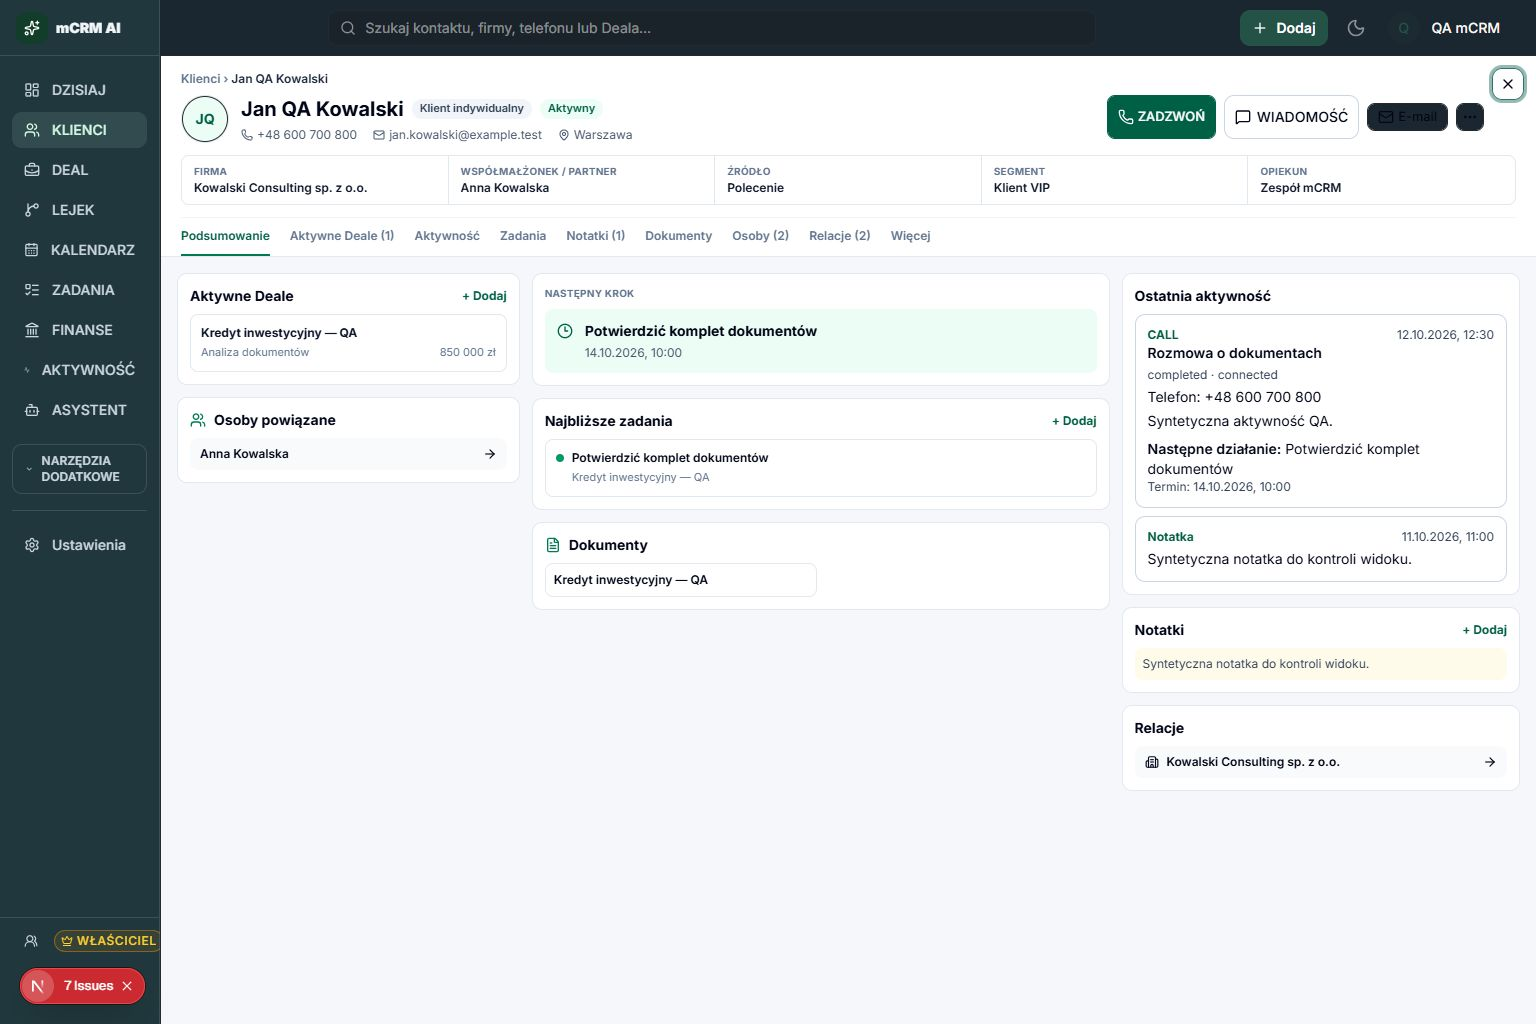
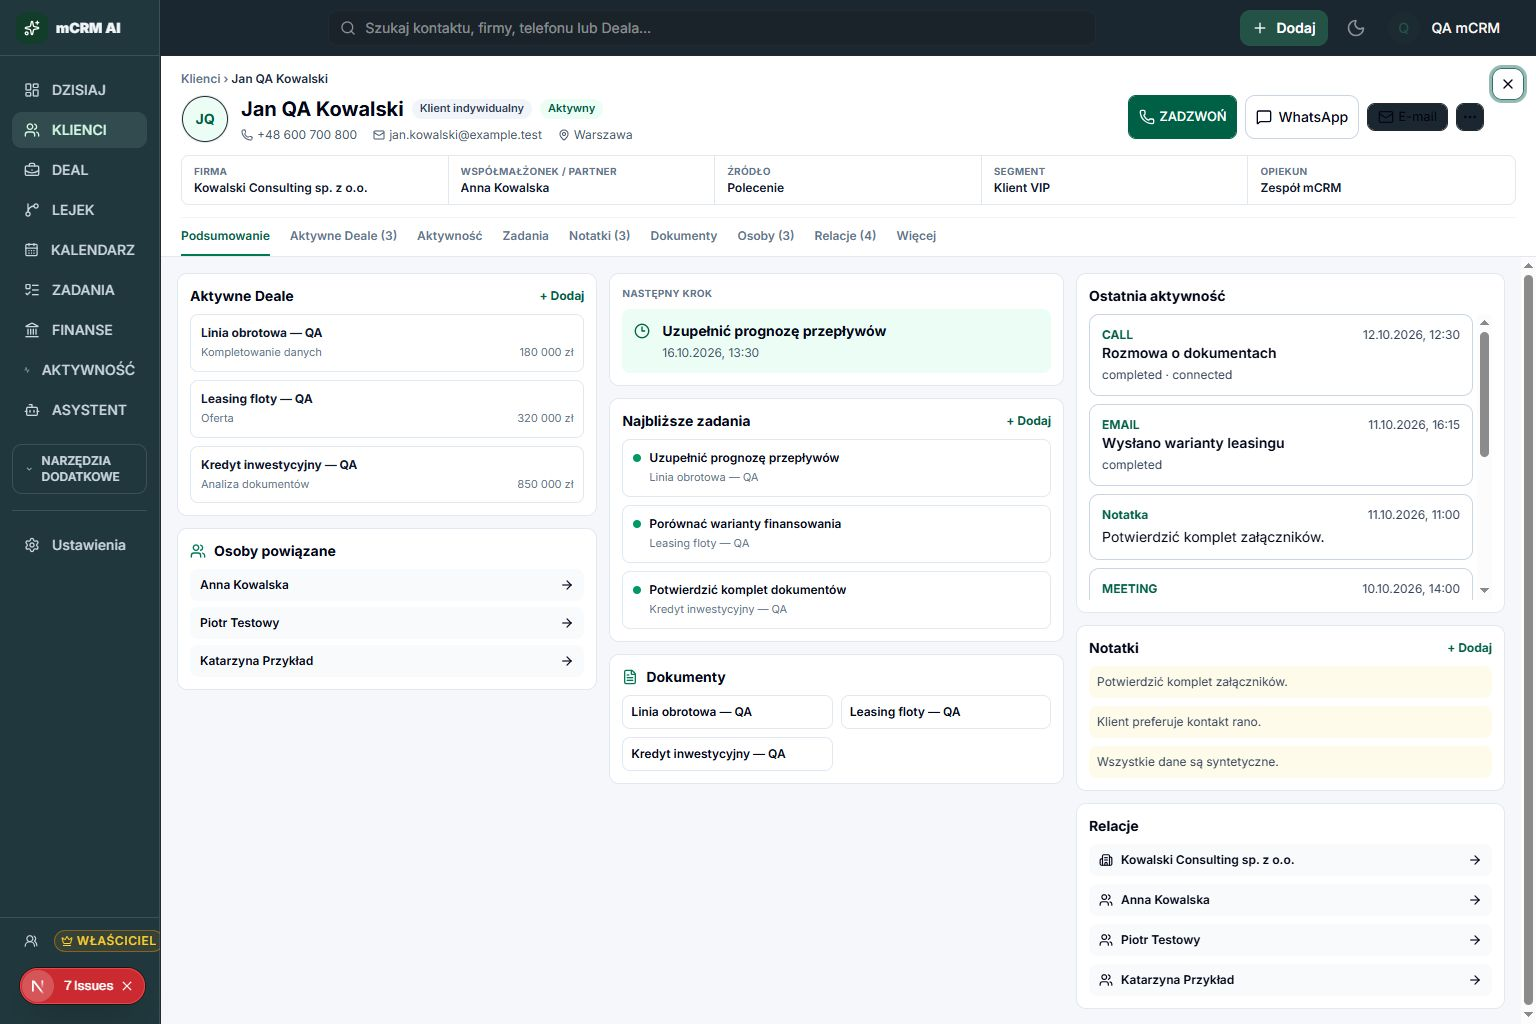
fix(contacts): match approved 02A density

diff --git a/src/components/contacts/contact-detail-view.tsx b/src/components/contacts/contact-detail-view.tsx
@@ -690,6 +690,7 @@ export function ContactDetailView({
                       <WhatsAppAction
                         phone={contact.phone}
                         contactId={contact.id}
+                        label="WhatsApp"
                       />
                       <Button
                         size="sm"
@@ -747,11 +748,11 @@ export function ContactDetailView({
                       ['documents', 'Dokumenty'],
                       [
                         'companies',
-                        `Osoby (${relatedPeople.length + spouseLinks.length})`,
+                        `Osoby (${relatedPeople.filter((person) => !spouseLinks.some(({ spouse }) => spouse.id === person.id)).length + spouseLinks.length})`,
                       ],
                       [
                         'companies',
-                        `Relacje (${contactCompanies.length + spouseLinks.length})`,
+                        `Relacje (${contactCompanies.length + relatedPeople.filter((person) => !spouseLinks.some(({ spouse }) => spouse.id === person.id)).length + spouseLinks.length})`,
                       ],
                     ].map(([value, label], index) => (
                       <button
@@ -774,7 +775,7 @@ export function ContactDetailView({
                 </header>
 
                 <main className="min-h-0 flex-1 overflow-y-auto p-4">
-                  <div className="grid min-h-full grid-cols-[minmax(220px,0.86fr)_minmax(360px,1.45fr)_minmax(250px,1fr)] gap-3">
+                  <div className="grid min-h-full grid-cols-[minmax(260px,0.98fr)_minmax(330px,1.06fr)_minmax(300px,1fr)] gap-3">
                     <div className="space-y-3">
                       <section className="rounded-lg border border-slate-200 bg-white p-3">
                         <div className="flex items-center justify-between">
@@ -972,7 +973,7 @@ export function ContactDetailView({
                         </h3>
                         <ActivityHistory
                           contactId={contact.id}
-                          className="mt-2"
+                          className="mt-2 max-h-[286px] overflow-y-auto pr-1"
                         />
                       </section>
                       <section className="rounded-lg border border-slate-200 bg-white p-3">
@@ -1018,11 +1019,47 @@ export function ContactDetailView({
                               <ArrowRight className="size-3.5" />
                             </Link>
                           ))}
-                          {!contactCompanies.length && !spouseLinks.length && (
-                            <p className="py-3 text-slate-500">
-                              Brak zdefiniowanych relacji.
-                            </p>
-                          )}
+                          {spouseLinks.map(({ spouse }) => (
+                            <Link
+                              key={`relation-${spouse.id}`}
+                              href={`/contacts?open=${spouse.id}`}
+                              className="flex items-center justify-between rounded-md bg-slate-50 px-2.5 py-2 font-semibold hover:bg-emerald-50"
+                            >
+                              <span className="flex items-center gap-2">
+                                <Users className="size-3.5" />
+                                {spouse.name || spouse.phone}
+                              </span>
+                              <ArrowRight className="size-3.5" />
+                            </Link>
+                          ))}
+                          {relatedPeople
+                            .filter(
+                              (person) =>
+                                !spouseLinks.some(
+                                  ({ spouse }) => spouse.id === person.id
+                                )
+                            )
+                            .slice(0, 3)
+                            .map((person) => (
+                              <Link
+                                key={`relation-${person.id}`}
+                                href={`/contacts?open=${person.id}`}
+                                className="flex items-center justify-between rounded-md bg-slate-50 px-2.5 py-2 font-semibold hover:bg-emerald-50"
+                              >
+                                <span className="flex items-center gap-2">
+                                  <Users className="size-3.5" />
+                                  {person.name || person.phone}
+                                </span>
+                                <ArrowRight className="size-3.5" />
+                              </Link>
+                            ))}
+                          {!contactCompanies.length &&
+                            !spouseLinks.length &&
+                            !relatedPeople.length && (
+                              <p className="py-3 text-slate-500">
+                                Brak zdefiniowanych relacji.
+                              </p>
+                            )}
                         </div>
                       </section>
                     </div>
@@ -1096,6 +1133,7 @@ export function ContactDetailView({
                     <WhatsAppAction
                       phone={contact.phone}
                       contactId={contact.id}
+                      label="WhatsApp"
                       className="border-slate-300 bg-white text-slate-950 hover:bg-slate-100 hover:text-slate-950"
                     />
                     <Button
@@ -1457,6 +1495,7 @@ export function ContactDetailView({
                           <WhatsAppAction
                             phone={contact.phone}
                             contactId={contact.id}
+                            label="WhatsApp"
                           />
                         </div>
                       </section>

diff --git a/src/components/sales/whatsapp-action.tsx b/src/components/sales/whatsapp-action.tsx
@@ -8,6 +8,7 @@ interface WhatsAppActionProps {
   dealId?: string | null;
   phone?: string | null;
   className?: string;
+  label?: string;
 }
 
 export function WhatsAppAction({
@@ -15,6 +16,7 @@ export function WhatsAppAction({
   dealId,
   phone,
   className,
+  label = 'WIADOMOŚĆ',
 }: WhatsAppActionProps) {
   if (!contactId || !phone) return null;
   const query = new URLSearchParams({ contact: contactId, action: 'message' });
@@ -30,7 +32,7 @@ export function WhatsAppAction({
       )}
       render={<Link href={`/quick-call?${query.toString()}`} />}
     >
-      <MessageSquare className="size-4" /> WIADOMOŚĆ
+      <MessageSquare className="size-4" /> {label}
     </Button>
   );
 }

diff --git a/design-qa.md b/design-qa.md
@@ -11,36 +11,28 @@
 - Combined comparison evidence:
   - `C:\Users\HP\Documents\wacrm-local-first\km1.20-compare-desktop.jpg`
   - `C:\Users\HP\Documents\wacrm-local-first\km1.20-compare-mobile.jpg`
-- State: authenticated synthetic contact with linked company, spouse, active deal, activity and note. No production data.
-- Primary interactions tested: open Contact, open linked Company, edit first name, save, close, reopen and read back from the local synthetic datastore.
+- State: authenticated synthetic contact with three active Deals, three tasks, three documents, four activities, three notes, three related people and four relationship rows. No production data.
+- Primary interactions tested: open Contact, follow linked records, edit the synthetic description, save, close, reopen and read the exact value back from the local synthetic datastore.
 - Console: existing Base UI `nativeButton` warnings remain in shared action components; no failed contact data request.
 
 **Findings**
 
-- [P3] Desktop information density is lower than the 02A reference because the comparison states contain different record counts.
-  - Evidence: the synthetic fixture has one Deal, one related person and one note, while 02A demonstrates three Deals and denser task/document/activity groups.
-  - Impact: geometry is aligned; exact populated-state rhythm remains a fixture limitation rather than an implementation mismatch.
-- [P3] The existing action component labels WhatsApp as “WIADOMOŚĆ”, while 02A says “WhatsApp”.
+- [P3] 02A still shows six task rows and four document rows, while the verified synthetic state deliberately uses the requested minimum of three for each group.
+- [P3] The approved 02A activity rows are more compact; the implementation keeps the existing shared `ActivityHistory` cards in a bounded scroll region.
+- [P3] The 02A right column is slightly wider relative to the center column; the implementation keeps balanced minimum widths so existing long CRM labels remain readable.
 
 **Required fidelity surfaces**
 
-- Fonts/typography: hierarchy and compact UI weights are close; desktop body density remains lighter because of fixture volume.
+- Fonts/typography: hierarchy and compact UI weights are close; exact font metrics still differ from the raster reference.
 - Spacing/layout rhythm: desktop fixed shell, record header and three-column workspace align; the mobile header and five-item bottom navigation remain visible around the contact card.
 - Colors/tokens: dark-green shell, emerald actions, white cards and pale workspace match the approved direction.
 - Image quality/assets: no non-standard raster assets were substituted; screenshots were captured at DPR 1.
-- Copy/content: approved Polish labels are present except the existing “WIADOMOŚĆ” action label.
+- Copy/content: the Contact action now uses the approved “WhatsApp” label without changing the shared action's default elsewhere.
 
 **Comparison history**
 
 - Iteration 1: desktop popup inherited the shared Sheet width cap and rendered too narrow. Fixed with explicit desktop shell bounds; post-fix screenshot is `km1.20-contact-desktop.jpg`.
 - Iteration 2: mobile Sheet covered the entire viewport. Inset it below/above the reserved mobile shell zones and lowered its mobile stacking layer; the final screenshot retains the 00C header and bottom navigation.
+- Iteration 3: expanded the local-only synthetic fixture and balanced the three desktop columns. The current comparison contains 02A, 00S and the browser-rendered PR #18 state side by side.
 
-**Implementation checklist**
-
-- Optionally enrich the local synthetic fixture for a denser desktop comparison.
-
-**Follow-up polish**
-
-- Align the WhatsApp action label with 02A after confirming the shared action copy contract.
-
-final result: passed
+final result: technical preview and persistence passed; visual 1:1 is not claimed while the three documented P3 differences remain visible
